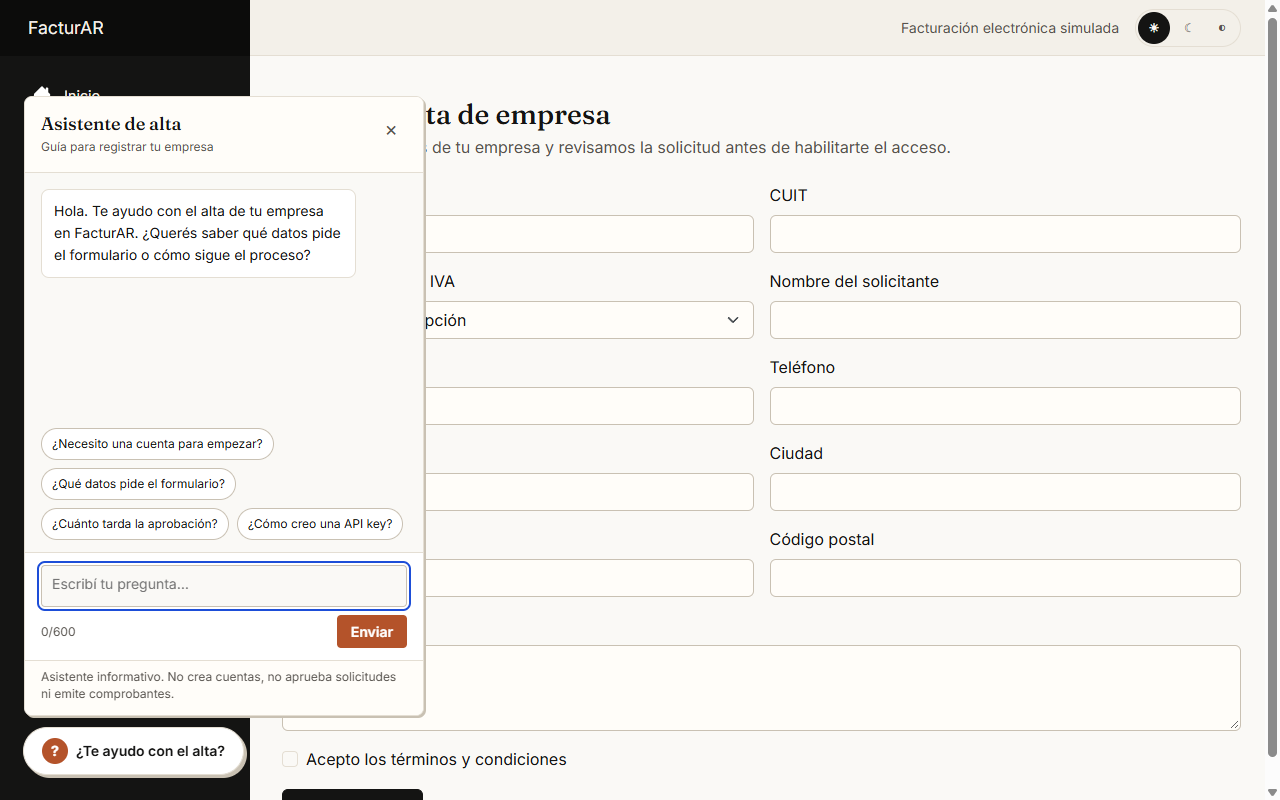
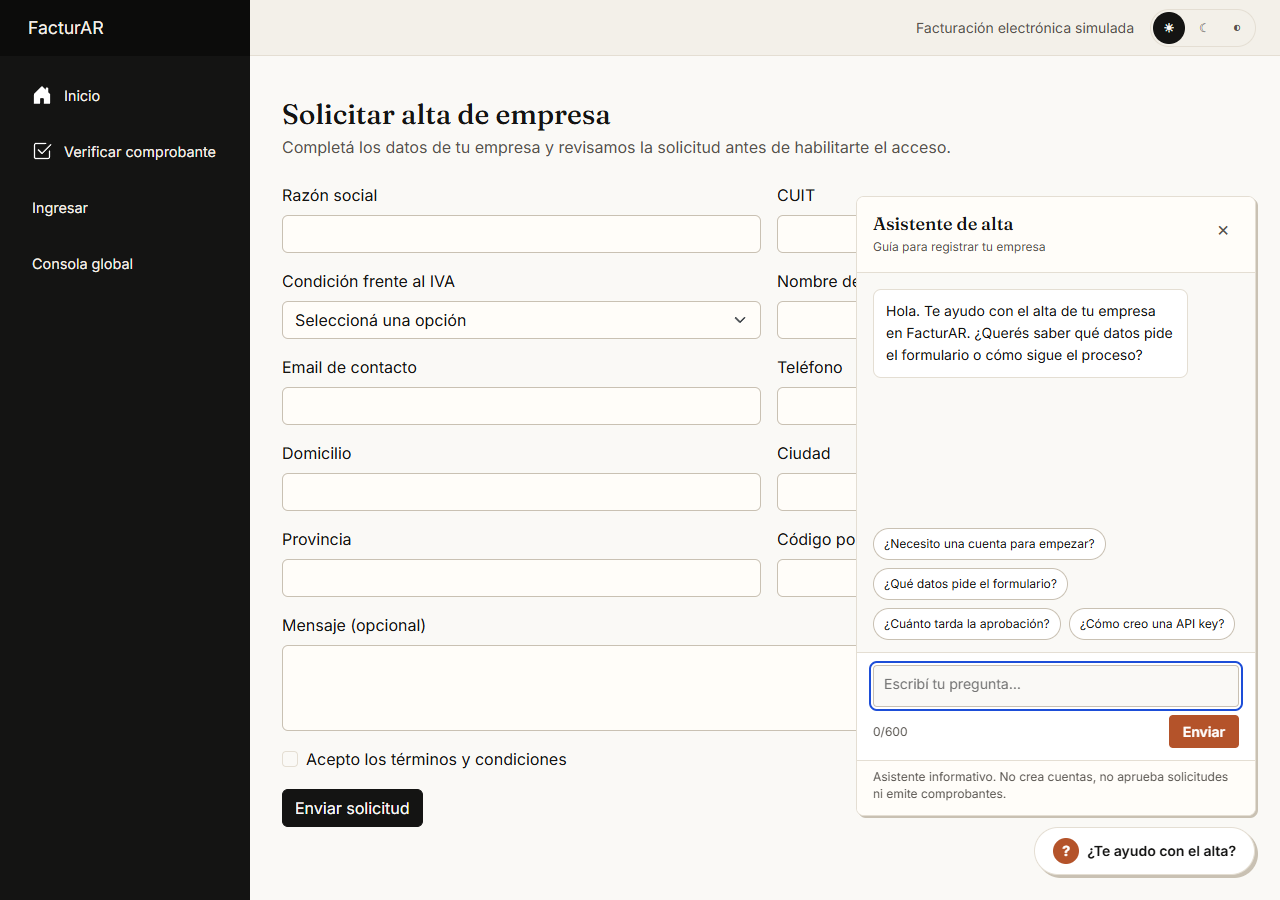
fix(web): anclar el asistente de alta a la derecha

diff --git a/facturAR_frontend/src/FacturAR.Web/wwwroot/css/asistente.css b/facturAR_frontend/src/FacturAR.Web/wwwroot/css/asistente.css
@@ -1,8 +1,10 @@
 .asistente {
     position: fixed;
-    left: var(--space-5);
+    right: var(--space-5);
     bottom: var(--space-5);
     z-index: 1050;
+    display: flex;
+    justify-content: flex-end;
     font-family: var(--font-ui);
     color: var(--color-text);
 }
@@ -43,7 +45,7 @@
 
 .asistente__panel {
     position: absolute;
-    left: 0;
+    right: 0;
     bottom: calc(100% + var(--space-3));
     display: flex;
     flex-direction: column;

diff --git a/docs/historias-usuario/US-32-landing-publica-chatbot.md b/docs/historias-usuario/US-32-landing-publica-chatbot.md
@@ -117,7 +117,7 @@ Reglas que la landing y el asistente deben comunicar sin ambigüedad:
 
 ### Asistente de alta
 
-- [x] El asistente aparece en `/solicitar-alta`, abajo a la izquierda, con botón flotante y panel plegable.
+- [x] El asistente aparece en `/solicitar-alta`, abajo a la derecha, con botón flotante y panel plegable.
 - [x] El panel se puede abrir y cerrar con mouse, teclado y `Escape`; el foco vuelve al botón.
 - [x] En móvil el panel ocupa la pantalla completa y atrapa el foco; en escritorio es un panel no modal.
 - [x] El asistente tiene historial de mensajes, indicador de “escribiendo”, quick replies y un disclaimer visible.
@@ -311,7 +311,7 @@ Reglas:
 | Bloque de código | Fondo `--color-code-bg`, texto `--color-code-text`, botón “Copiar” accesible. |
 | Acordeón FAQ | `<details>`/`<summary>` nativo o botón con `aria-expanded`; foco visible. |
 | Toggle de tema | Grupo de 3 opciones (Claro, Oscuro, Sistema) o botón cíclico con nombre accesible. Persistencia y `aria-pressed`. |
-| Asistente | Botón flotante abajo a la izquierda, panel, header, mensajes, quick replies, input, disclaimer. |
+| Asistente | Botón flotante abajo a la derecha, panel, header, mensajes, quick replies, input, disclaimer. |
 
 ### Anti-patrones prohibidos
 
@@ -422,7 +422,7 @@ Implementación:
 
 ### Ubicación y UX
 
-- Botón flotante fijo en la esquina inferior izquierda de `/solicitar-alta`.
+- Botón flotante fijo en la esquina inferior derecha de `/solicitar-alta`.
 - Desktop: botón con texto “¿Te ayudo con el alta?”; al abrir, panel de 400 px de ancho y hasta 620 px de alto.
 - Mobile: botón circular con ícono y `aria-label`; al abrir, hoja a pantalla completa.
 - Header: título “Asistente de alta”, subtítulo “Guía para registrar tu empresa”, botón cerrar.
